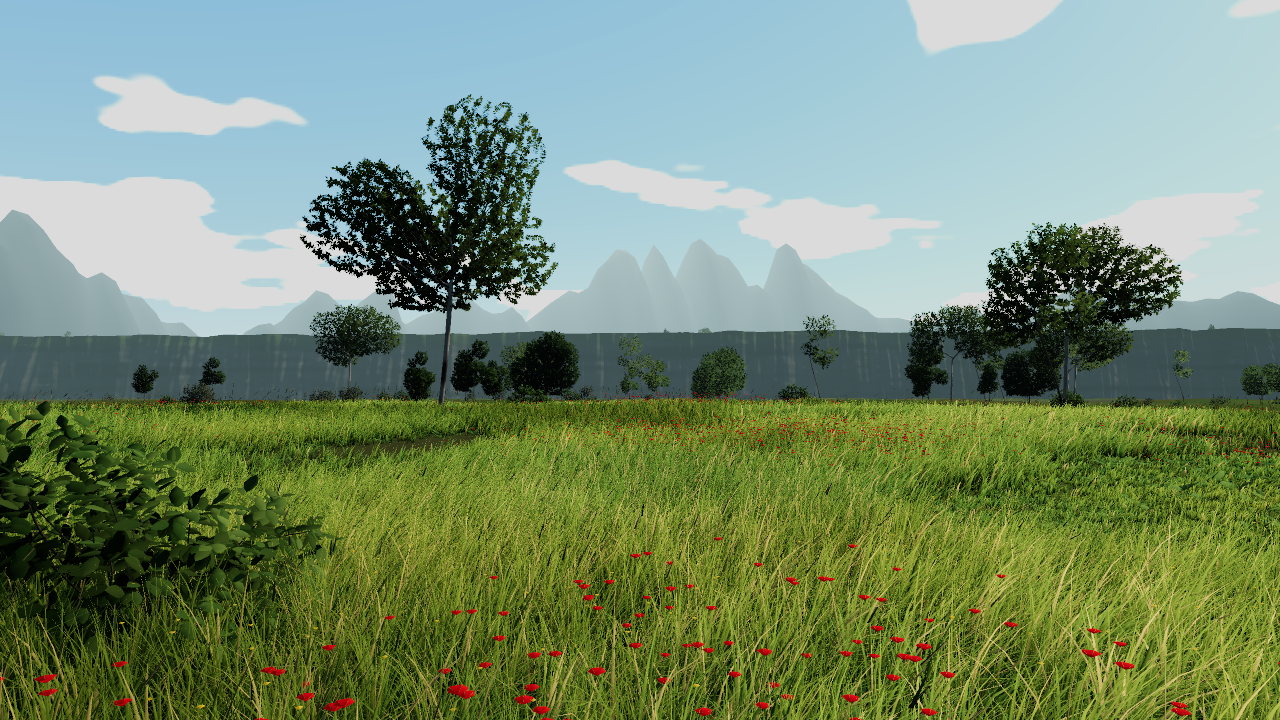
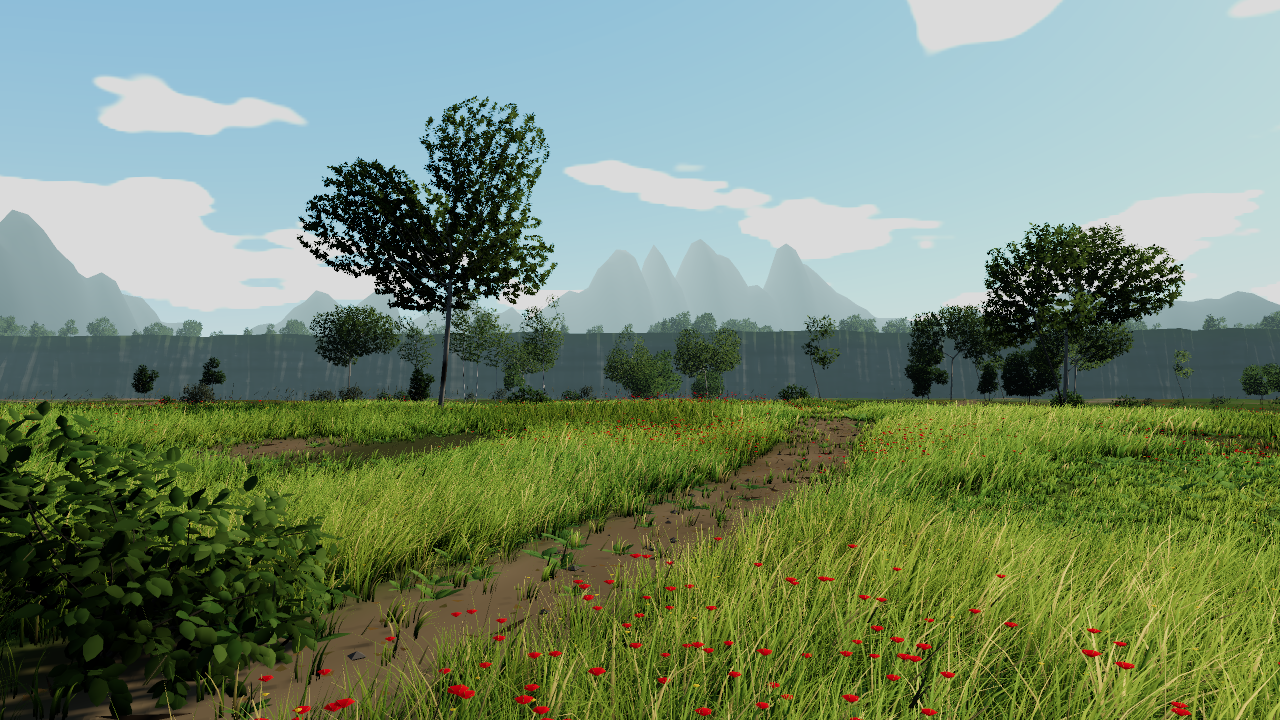
Document bare ground, litter and swaying crowns, and render the figures again

diff --git a/docs/wiki/Vegetation.md b/docs/wiki/Vegetation.md
@@ -1,12 +1,12 @@
 # Vegetation
 
-`Meadow` builds open summer grassland: tall grass, poppies, buttercups, trees and bushes of real leaves, a canyon, mountains, a clouded sky and a soft sun.
+`Meadow` builds open summer grassland: tall grass and flowers, bare dirt and a trail, trees and bushes of real leaves, and a canyon. Mountains, a clouded sky and a soft sun surround it.
 
-![A lone pale-trunked tree with a lobed crown stands in wind-bent grass with poppies, with groves, a band of cliffs and hazy mountains beyond](out/meadow.png)
+![A dirt trail winds through wind-bent grass with poppies past a lone pale-trunked tree, with birches, groves, a band of cliffs and a woodland beyond](out/meadow.png)
 
 `examples/meadow.mojo` draws this picture. The modules live in `extensions/vegetation/`. See [Extensions](Extensions). [Why grass is drawn in clusters](Why-grass-is-drawn-in-clusters) explains the design.
 
-The field holds about ten million blades. A frame grows and draws only the clusters that it can see, each at the level of detail that its distance picks. The frame above draws 512,000 blades as 2.0 million triangles. The lone tree near the camera has 71,000 leaves.
+The field holds about ten million blades. A frame grows and draws only the clusters that it can see, each at the level of detail that its distance picks. The frame above draws 508,000 blades as 1.7 million triangles. The lone tree near the camera has 71,000 leaves.
 
 ## Draw one frame
 
@@ -81,9 +81,9 @@ frames.append(blend_frames(moments))
 | `blades` | The blades that the drawn clusters read from their streams. |
 | `triangles` | The grass triangles of the drawn clusters. |
 
-`examples/meadow.mojo` prints these counts and the time of each step as JSON. On a four-core Linux host, the meadow builds in 2 seconds. Each of its 8 crowns grows once, and each of its 3 levels draws from that. `update` takes 0.4 seconds, and the render takes 20 seconds at 1280 by 720.
+`examples/meadow.mojo` prints these counts and the time of each step as JSON. On a four-core Linux host, the meadow builds in 3 seconds. Each of its 12 crowns grows once, and each of its 4 levels draws from that. `update` takes 0.3 seconds, and the render takes 21 seconds at 1280 by 720.
 
-The wind loop renders 4 moments for each of its 48 frames, and takes about 45 minutes at 640 by 360. The render time grows with the triangle count. It changes little with the image size or the four samples a pixel.
+The wind loop renders 4 moments for each of its 48 frames, and takes about 55 minutes at 640 by 360. The render time grows with the triangle count. It changes little with the image size or the four samples a pixel.
 
 ## The parts
 
@@ -97,7 +97,8 @@ The wind loop renders 4 moments for each of its 48 frames, and takes about 45 mi
 | `ground.mojo` | `Ground`: hills, a `Canyon`, the grass masks, the ground mesh, the cliff wall and the mountain ring. |
 | `field.mojo` | `GrassField`: clusters, levels of detail and the blade stream. |
 | `limbs.mojo` | `CrownShape`, `LimbParameters` and `grow_limbs`: branches grown by space colonization, and `limb_mesh`. |
-| `foliage.mojo` | `LeafShade`, the light through the leaves, `LeafMesh` and `foliage_program`. |
+| `litter.mojo` | `ground_litter`: fallen leaves, twigs and pebbles on bare ground. |
+| `foliage.mojo` | `LeafShade`, the light through the leaves, `LeafMesh`, `foliage_program`, `wood_program` and `sway_offset`. |
 | `crown.mojo` | `grow_crown`, `dress` and `leafy_tree`: the limbs, the leaves on the twigs, and their light. |
 | `rock.mojo` | `boulder`: a stone pushed out by noise, with moss on top. |
 | `sky.mojo` | `paint_sky`: Preetham's sky with clouds, baked into a cube. |
@@ -116,6 +117,7 @@ The blades of a tuft curl out from its middle. A tuft has `tuft_blades` blades a
 - A patch of the field 3.5 meters wide is a deeper or a yellower green.
 - `Ground.tallness` makes islands of tall grass and patches of short grass, a fifth as tall, as on a path or where animals graze.
 - 14 percent of the tufts are laid over by wind and rain. Their blades arch over and lie.
+- Where the ground is bare, no grass grows. Toward a bare patch the grass thins, and it is trodden down to 30 percent of its height. See [Bare ground and litter](#bare-ground-and-litter).
 
 | Kind | Looks |
 |---|---|
@@ -175,11 +177,11 @@ With a `loop`, the gusts at a time fade into the gusts a loop earlier. The fade 
 
 Points close together pull one branch. Points apart split it in two. So a limb grows into each lobe, and the lobes have sky between them. A node's radius to the power `pipe` is the sum of its children's, and each twig tip is `tip_radius` thick. The trunk flares at its foot by `flare`.
 
-`limb_mesh` draws a tube along each chain of nodes. A chain follows the thickest child at each fork. A branch thinner than `wood_radius` is left out, because the leaves hide it. The bark is pale with dark patches, and darker near the ground.
+`limb_mesh` draws a tube along each chain of nodes. A chain follows the thickest child at each fork. A branch thinner than `wood_radius` is left out, because the leaves hide it. The bark is pale with dark patches, and darker near the ground. `bark_marks` patches climb each meter of the trunk: a birch has many short ones.
 
 ### Leaves
 
-Each node within `leaf_reach` of a twig's tip carries `leaves_per_node` leaves on the stretch of twig below it. A leaf splays out from its twig, toward the twig's tip and a little down. It turns its face up and out of the crown. The leaves of one twig make a spray, and the sprays of one limb make a lobe. Neighboring twigs share a tint, so the lobes differ in color.
+Each node within `leaf_reach` of a twig's tip carries `leaves_per_node` leaves on the stretch of twig below it. A leaf splays out from its twig, toward the twig's tip and a little down. It turns its face up and out of the crown. The leaves of one twig make a spray, and the sprays of one limb make a lobe. Neighboring twigs share a tint, and a slow noise makes patches of the crown 2 meters wide lighter or darker.
 
 A near leaf is `OVATE`: a base, three pairs of edge vertices and a tip, six triangles. Its halves tilt their normals apart, so it is lit as if it were folded.
 
@@ -187,6 +189,7 @@ A near leaf is `OVATE`: a base, three pairs of edge vertices and a tip, six tria
 |---|---|
 | `CrownParameters()` | An open tree 14.5 meters tall. Its pale trunk is bare for 5 meters and forks into thin limbs. Its crown is 12 meters across, nine lobes of 15-centimeter leaves. |
 | `windswept_tree()` | A slender tree 12.5 meters tall. Its dark trunk leans and wanders, and its narrow crown is a few wisps of leaves. |
+| `birch_tree()` | A birch 16 meters tall. Its white trunk has short dark marks and is bare for 6 meters. Its narrow crown is small, light leaves on limbs that droop. |
 | `young_tree()` | A young tree 9.4 meters tall. Its crown is a tall oval from 2 meters up, 4 meters across. |
 | `round_tree()` | A dense tree 11 meters tall. Its dark crown reaches nearly to the ground, 9 meters across. |
 | `bush_parameters()` | A bush 1.9 meters tall that forks from the ground, with leaves 12 centimeters long. |
@@ -201,25 +204,52 @@ Each leaf keeps the two numbers as its `sunlit` and `skylit` attributes. `foliag
 
 ### Levels of detail
 
-`default_crown_levels` returns three levels. A crown is grown and lit once, and `dress` draws each level from it.
+`default_crown_levels` returns four levels. A crown is grown and lit once, and `dress` draws each level from it.
 
 | Reach | Keeps | Leaves | Wood |
 |---|---|---|---|
 | 40 meters | every leaf | ovate | full |
 | 110 meters | 40 percent | ovate | full |
-| past that | 16 percent | cards | lean |
+| 300 meters | 16 percent | cards | lean |
+| past that | 5 percent | cards | lean |
 
-A kept leaf grows by the inverse square root of the fraction, so the crown keeps its cover. A card is a diamond of two triangles. Lean wood draws only the branches three times as thick as `wood_radius`, with three vertices round each ring.
+A kept leaf grows by the inverse square root of the fraction, so the crown keeps its cover. A card is a diamond of two triangles. Lean wood draws only the branches three times as thick as `wood_radius`, with three vertices round each ring. A level of ovate leaves sways in the wind, and a level of cards stands still.
+
+### The wind in a crown
+
+`foliage_program(motion)` and `wood_program(motion)` move each vertex of the leaves and of the wood by `sway_offset`. The offset is a swing along the wind and a flutter up and down. `Wind.crown_motion` gives both. In the default wind, an outer twig swings 30 centimeters once a second. A leaf flutters 3.5 centimeters 2.5 times a second.
+
+A vertex sways by its place in the tree. The share is the square of its height over 12 meters, at most 1.5. It is 0.35 of that at the trunk, and all of it 4 meters out from it. A bush only rustles.
+
+The swing's phase changes slowly through the crown, so a limb and its leaves move together and the lobes move apart. The flutter's phase changes fast, so each spray flutters on its own. The leaves and the wood read the same offset, so a leaf stays on its twig.
+
+The time is the `SWAY_TIME` uniform, which `Meadow.update` sets each frame. A looping wind's rates are whole numbers a loop, so the crowns loop with the grass.
 
 ## Layout
 
 `MeadowParameters.crowns` lists the kinds of tree and bush. `plantings` lists each tree and bush: the crown it wears, where it stands, and its size. `scatter_plantings` scatters plantings across the view toward -z, between two distances. `grove_plantings` stands plantings together round a point.
 
-`default_crowns` returns eight crowns: two open trees, a windswept tree, two young trees, a round tree, a green bush and a gray-green bush. `default_plantings` places a lone open tree and a bush near the camera, a second open tree, and a windswept tree. Three groves of mixed trees stand from 60 to 140 meters. 14 trees and 30 bushes are scattered from 12 to 160 meters. 45 young and round trees stand from 435 to 700 meters, on the far side of the canyon.
+`default_crowns` returns twelve crowns: three open trees, a windswept tree, two young trees, two round trees, two birches, a green bush and a gray-green bush.
+
+`default_plantings` places a lone open tree and a bush near the camera, a second open tree, and a windswept tree. A grove of mixed trees, a grove of birches and a grove at the back stand from 60 to 140 meters. 14 trees and 30 bushes are scattered from 12 to 160 meters. A woodland of 120 young and round trees stands from 428 to 520 meters, just past the canyon's far rim. They are 1.3 to 1.9 times their crowns' size, so their tops show above the band of cliffs.
+
+## Bare ground and litter
+
+`Ground.bare` is one where the ground is bare dirt, and the grass's cover is zero there.
+
+- **Dirt patches.** `dirt` sets how much of the field is bare, from 0 to 1. The patches are about 13 meters across, with soft edges. The meadow's ground has a `dirt` of 0.2.
+- **The trail.** A trail `trail_width` wide winds away from the camera's side of the field and drifts toward the groves on the right. Its middle is 92 percent bare, so a few tufts grow on it, and its edge is 1.3 meters wide. The meadow's trail is 1.2 meters wide.
+- **Clearings.** A `Clearing` is the shade round a tree's foot, 80 percent of its crown's radius. `openness` is zero in its inner quarter and rises smoothly to one at its edge. `GrassField.cover_at` thins the grass by it. `litter_shade` browns the ground mesh under it, toward leaf litter. The meadow makes a clearing for each tree and bush near the field.
+
+Bare ground is mottled dirt, light and dark brown.
+
+`ground_litter` scatters fallen leaves, twigs and pebbles on the bare ground. It tries `litter` points within `litter_reach` of the field's middle. A point in full shade is littered 90 times in a hundred, and a point of bare dirt 50 times.
+
+Of the litter, 78 percent is leaves, 17 percent is pebbles and the rest is twigs. A leaf is a diamond that lies on the ground, brown, ochre or a dull green. A pebble has eight faces, each with its own normal. All of it is one mesh that takes the sun's shadow.
 
 ## Ground, sky and light
 
-`Ground` gives the height of rolling hills and its masks: the cover, the tallness, the dryness, the weeds, the bloom and the far color. The ground mesh carries the far color. Past the last level of detail, the ground looks like the grass that it stands in for.
+`Ground` gives the height of rolling hills and its masks. They are the bareness, the cover, the tallness, the dryness, the weeds, the bloom and the far color. The ground mesh carries the far color. Past the last level of detail, the ground looks like the grass that it stands in for. The meadow's ground mesh has 512 cells across, so its cells near the camera are half a meter to a meter wide.
 
 A `Canyon` crosses the ground toward -z. Its floor is `depth` below the near side, and its far plateau is `rise` above it. Each rim is a smooth step 6 meters wide. The default canyon's near rim is 300 meters from the origin and its far rim 420 meters. It is 80 meters deep, and the far side rises 38 meters. The far wall then shows above the near rim as a band of cliffs.
 
@@ -249,6 +279,6 @@ The mountains are `ridge_ring`, a ring of rugged peaks 900 meters away. Each col
 - There is no visibility buffer. The rasterizer shades each fragment as it draws it.
 - The grass casts into the same two cascades as the trees. Its shadow on itself is only as sharp as their texels. So the dark roots still stand in for the shadow at the base of each tuft.
 - A crown is shadowed by its own leaves only. The shadow of another tree does not fall on its leaves.
-- A tree sways as one stiff body from its foot. Its limbs and leaves do not move on their own.
-- The woodland beyond the canyon is small and hazy, and it barely shows above the band of cliffs.
+- A crown sways by the place of each vertex in the tree, not by the gusts that reach it. Only the lean from its foot follows the gusts.
+- Litter lies only within `litter_reach` of the field's middle.
 - The indirect light is a hemisphere light and baked occlusion. The voxel and screen-space passes of the renderer are not used.

diff --git a/README.md b/README.md
@@ -535,7 +535,7 @@ The anatomy combines measured inputs with authored templates. See the [bounded v
 - [x] [Segment inertia](https://github.com/SethKitchen/ThreeMojo/wiki/Segment-inertia): mass, center of mass and inertia tensor of a thigh, a shank and a foot [#326](https://github.com/SethKitchen/ThreeMojo/issues/326)
 - [x] [Persistent scene water](https://github.com/SethKitchen/ThreeMojo/wiki/Water#animate-it): `WaterScene` keeps its state and composes with a scene. `GpuWater` shades it on a CUDA or Apple Metal GPU, with CPU comparisons and 1080p benchmarks [#300](https://github.com/SethKitchen/ThreeMojo/issues/300)
 - [x] [Water](https://github.com/SethKitchen/ThreeMojo/wiki/Water): a Clearwater shallow-water still, with spectrum, ripples, caustics and glare [#327](https://github.com/SethKitchen/ThreeMojo/issues/327)
-- [x] [Vegetation](https://github.com/SethKitchen/ThreeMojo/wiki/Vegetation): ten million grass blades in culled clusters with levels of detail, gusts, poppies, trees grown by space colonization and a clouded sky
+- [x] [Vegetation](https://github.com/SethKitchen/ThreeMojo/wiki/Vegetation): ten million culled grass blades, gusts, dirt and a trail, swaying trees grown by space colonization, and a clouded sky
 - [x] [CARLA lane borders](https://github.com/SethKitchen/ThreeMojo/wiki/CARLA-lane-borders): border-only OpenDRIVE lanes get width records from their borders, with ASAM's precedence and refusal rules [#577](https://github.com/SethKitchen/ThreeMojo/issues/577)
 - [x] [CARLA map budgets](https://github.com/SethKitchen/ThreeMojo/wiki/CARLA-map-budgets): typed construction and certified-query work limits, checked before the work, with exhaustion kept apart from no lane [#580](https://github.com/SethKitchen/ThreeMojo/issues/580)
 - [x] [Certified CARLA query pruning](https://github.com/SethKitchen/ThreeMojo/wiki/CARLA-index-admission#per-segment-skip): each segment's own curve deviation skips candidates that cannot win, with the same answers [#685](https://github.com/SethKitchen/ThreeMojo/issues/685)

diff --git a/docs/wiki/Why-grass-is-drawn-in-clusters.md b/docs/wiki/Why-grass-is-drawn-in-clusters.md
@@ -72,3 +72,9 @@ A crown is tens of thousands of small leaves turned every way. Lit by their own 
 So each leaf carries the light that reaches it through the others. The leaves are counted in a grid of cells, and a ray from each leaf steps through the cells toward the sun and the sky. Beer's law gives the light that comes through. The grid holds any shape of crown, and its cost grows with the leaves, not with their square. The sun's share dims only the sun, and the sky's share dims only the sky, as the light of a real crown does. A leaf in the shade then keeps the blue light of the sky.
 
 A far crown keeps fewer leaves and makes each larger, and the farthest uses cards. It stays geometry, so it is lit and it casts a shadow as a near crown does. The crown is grown and lit once, and each level draws from the same leaves.
+
+## Why a crown sways in the vertex stage
+
+A GPU-driven renderer moves a tree's leaves in its vertex shader. The geometry stays as it was built, and a few sines of time and place move each vertex. Here a node program's position output does the same. To grow the crown again on each frame would cost far more.
+
+A position program reads only constants, uniforms, time, math and the vertex's own position and normal. It reads no attribute, so how far a vertex sways cannot be baked into it. So the program works that share out from where the vertex is: higher up and further out from the trunk, it sways more. A twig and its leaves are in the same place, so they move together. A far tree's leaves are a few pixels, and its motion would not show. So the levels of cards stand still, and cost nothing for it.

diff --git a/docs/wiki/Extensions.md b/docs/wiki/Extensions.md
@@ -114,7 +114,8 @@ extensions/
     ground.mojo    hills, grass masks, ground and mountains
     field.mojo     clusters, levels of detail, the blade stream
     limbs.mojo     branches grown by space colonization
-    foliage.mojo   leaves, and the light through a crown
+    foliage.mojo   leaves, the light through a crown, and its wind
+    litter.mojo    fallen leaves, twigs and pebbles
     crown.mojo     leafy trees and bushes
     rock.mojo      boulders
     sky.mojo       Preetham's sky with clouds, in a cube
